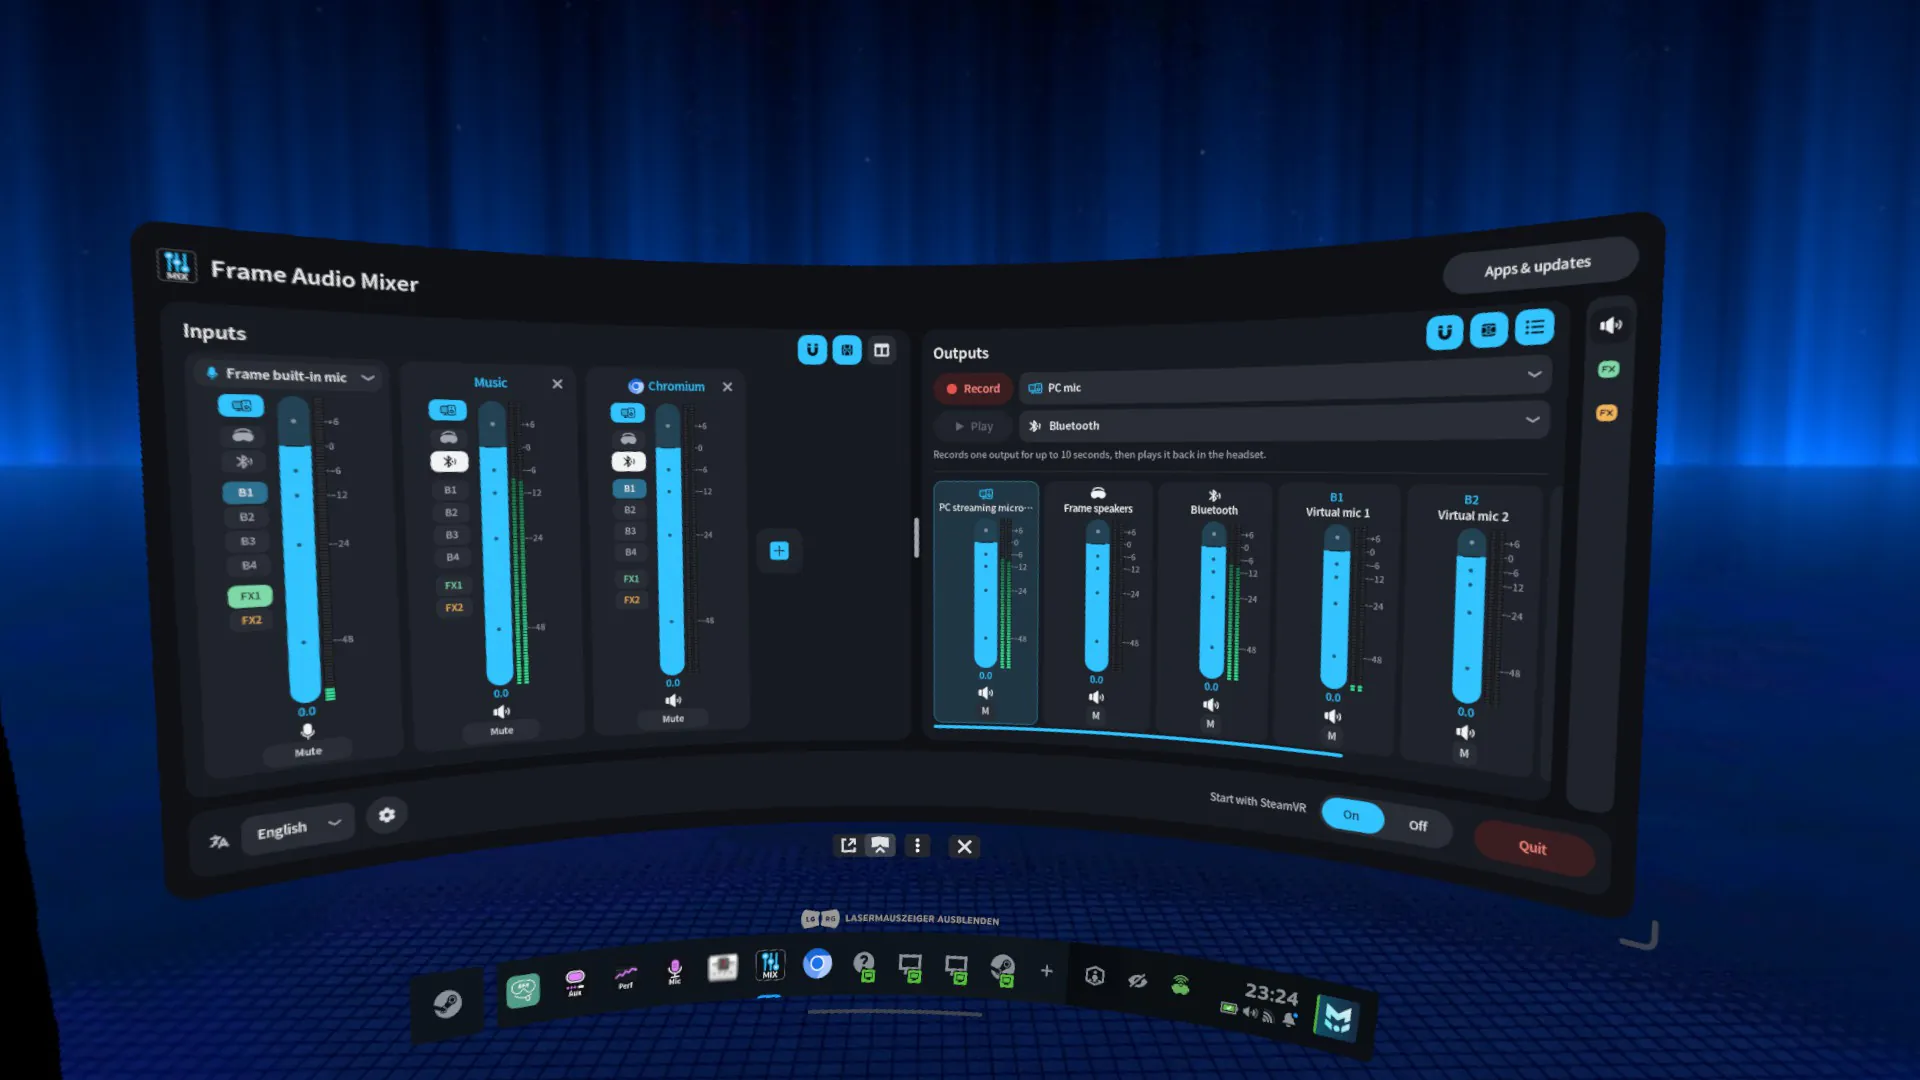
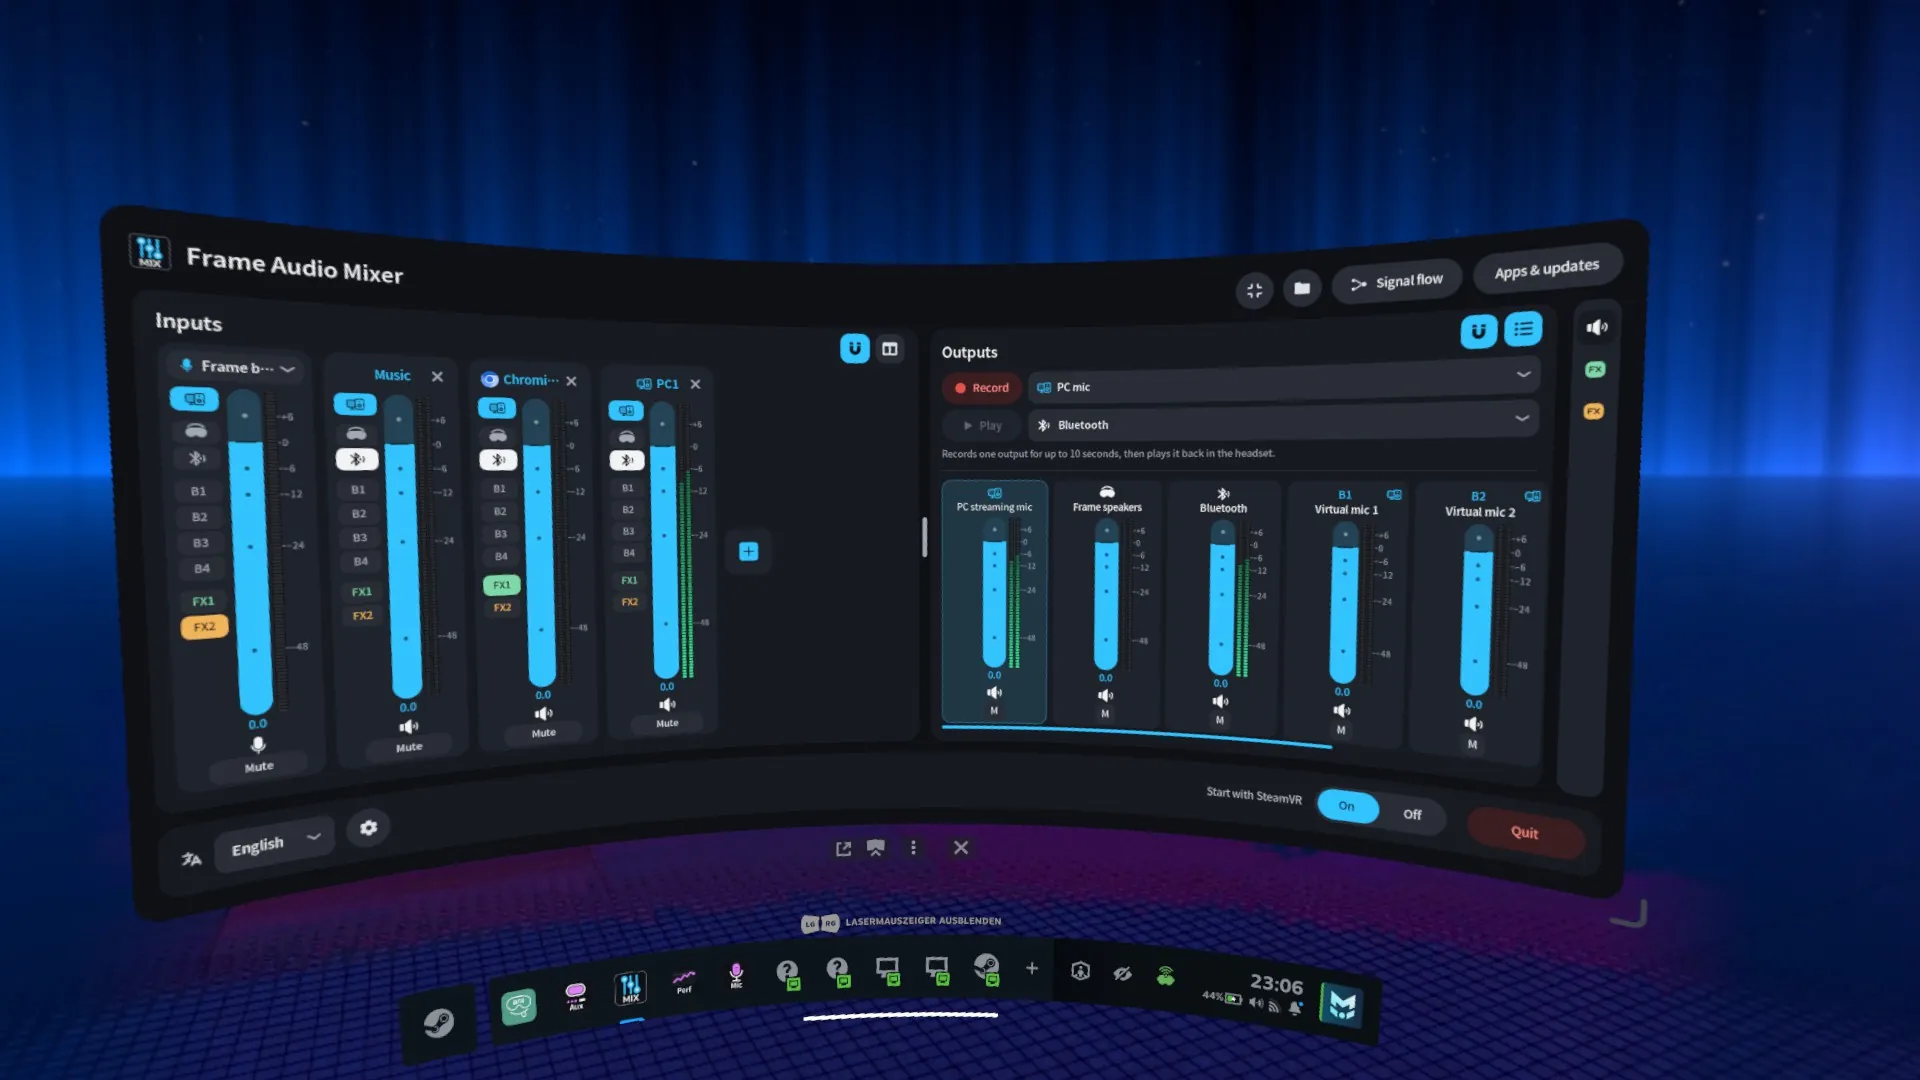
Show the 2.2.0 screenshots on the landing page.
New previews with their descriptions in all seven languages. The docs page's
first-mix picture now also names its PC1 channel.

diff --git a/index.html b/index.html
@@ -9,7 +9,7 @@
   <link rel="preconnect" href="https://fonts.googleapis.com">
   <link rel="preconnect" href="https://fonts.gstatic.com" crossorigin>
   <link href="https://fonts.googleapis.com/css2?family=Noto+Sans+Mono:wght@400&family=Noto+Sans:wght@400;500&display=swap" rel="stylesheet">
-  <link rel="stylesheet" href="css/site.css?v=20261113d">
+  <link rel="stylesheet" href="css/site.css?v=20261113e">
 </head>
 <body data-page="home">
   <div class="waves" aria-hidden="true"><svg class="wave a" viewBox="0 0 2400 800" preserveAspectRatio="none"><path id="wave-a" d="M0 220C75 220 75 130 150 130C225 130 225 220 300 220C375 220 375 310 450 310C525 310 525 220 600 220C675 220 675 130 750 130C825 130 825 220 900 220C975 220 975 310 1050 310C1125 310 1125 220 1200 220"/><use href="#wave-a" x="1200"/></svg><svg class="wave b" viewBox="0 0 2400 800" preserveAspectRatio="none"><path id="wave-b" d="M0 120C75 120 75 210 150 210C225 210 225 120 300 120C375 120 375 30 450 30C525 30 525 120 600 120C675 120 675 210 750 210C825 210 825 120 900 120C975 120 975 30 1050 30C1125 30 1125 120 1200 120"/><use href="#wave-b" x="1200"/></svg><svg class="wave c" viewBox="0 0 2400 800" preserveAspectRatio="none"><path id="wave-c" d="M0 500C75 500 75 450 150 450C225 450 225 500 300 500C375 500 375 550 450 550C525 550 525 500 600 500C675 500 675 450 750 450C825 450 825 500 900 500C975 500 975 550 1050 550C1125 550 1125 500 1200 500"/><use href="#wave-c" x="1200"/></svg></div>
@@ -46,10 +46,10 @@
       <p class="note" data-i18n="install_note"></p>
     </section>
     <section class="gallery" aria-label="Frame Audio Mixer">
-      <button type="button" class="shot"><img src="assets/preview/Preview-Frame-Audio-Mixer-1-960.webp" srcset="assets/preview/Preview-Frame-Audio-Mixer-1-960.webp 960w, assets/preview/Preview-Frame-Audio-Mixer-1.webp 1920w" sizes="(max-width: 720px) calc(100vw - 32px), 512px" width="960" height="540" decoding="async" data-full="assets/preview/Preview-Frame-Audio-Mixer-1.webp" alt="Wide view, blue theme" data-i18n-alt="alt1"></button>
-      <button type="button" class="shot"><img src="assets/preview/Preview-Frame-Audio-Mixer-2-960.webp" srcset="assets/preview/Preview-Frame-Audio-Mixer-2-960.webp 960w, assets/preview/Preview-Frame-Audio-Mixer-2.webp 1920w" sizes="(max-width: 720px) calc(100vw - 32px), 512px" width="960" height="540" decoding="async" data-full="assets/preview/Preview-Frame-Audio-Mixer-2.webp" alt="Input rows, pink theme" data-i18n-alt="alt2"></button>
-      <button type="button" class="shot"><img src="assets/preview/Preview-Frame-Audio-Mixer-3-960.webp" srcset="assets/preview/Preview-Frame-Audio-Mixer-3-960.webp 960w, assets/preview/Preview-Frame-Audio-Mixer-3.webp 1920w" sizes="(max-width: 720px) calc(100vw - 32px), 512px" width="960" height="540" loading="lazy" decoding="async" data-full="assets/preview/Preview-Frame-Audio-Mixer-3.webp" alt="Effect bus, pink theme" data-i18n-alt="alt3"></button>
-      <button type="button" class="shot"><img src="assets/preview/Preview-Frame-Audio-Mixer-4-960.webp" srcset="assets/preview/Preview-Frame-Audio-Mixer-4-960.webp 960w, assets/preview/Preview-Frame-Audio-Mixer-4.webp 1920w" sizes="(max-width: 720px) calc(100vw - 32px), 512px" width="960" height="540" loading="lazy" decoding="async" data-full="assets/preview/Preview-Frame-Audio-Mixer-4.webp" alt="Dashboard, blue theme" data-i18n-alt="alt4"></button>
+      <button type="button" class="shot"><img src="assets/preview/Preview-Frame-Audio-Mixer-1-960.webp" srcset="assets/preview/Preview-Frame-Audio-Mixer-1-960.webp 960w, assets/preview/Preview-Frame-Audio-Mixer-1.webp 1920w" sizes="(max-width: 720px) calc(100vw - 32px), 512px" width="960" height="540" decoding="async" data-full="assets/preview/Preview-Frame-Audio-Mixer-1.webp" alt="Mixer with a PC1 channel, blue theme" data-i18n-alt="alt1"></button>
+      <button type="button" class="shot"><img src="assets/preview/Preview-Frame-Audio-Mixer-2-960.webp" srcset="assets/preview/Preview-Frame-Audio-Mixer-2-960.webp 960w, assets/preview/Preview-Frame-Audio-Mixer-2.webp 1920w" sizes="(max-width: 720px) calc(100vw - 32px), 512px" width="960" height="540" decoding="async" data-full="assets/preview/Preview-Frame-Audio-Mixer-2.webp" alt="Mixer, pink theme" data-i18n-alt="alt2"></button>
+      <button type="button" class="shot"><img src="assets/preview/Preview-Frame-Audio-Mixer-3-960.webp" srcset="assets/preview/Preview-Frame-Audio-Mixer-3-960.webp 960w, assets/preview/Preview-Frame-Audio-Mixer-3.webp 1920w" sizes="(max-width: 720px) calc(100vw - 32px), 512px" width="960" height="540" loading="lazy" decoding="async" data-full="assets/preview/Preview-Frame-Audio-Mixer-3.webp" alt="Signal flow, blue theme" data-i18n-alt="alt3"></button>
+      <button type="button" class="shot"><img src="assets/preview/Preview-Frame-Audio-Mixer-4-960.webp" srcset="assets/preview/Preview-Frame-Audio-Mixer-4-960.webp 960w, assets/preview/Preview-Frame-Audio-Mixer-4.webp 1920w" sizes="(max-width: 720px) calc(100vw - 32px), 512px" width="960" height="540" loading="lazy" decoding="async" data-full="assets/preview/Preview-Frame-Audio-Mixer-4.webp" alt="Mixer below Mixxx in SteamVR" data-i18n-alt="alt4"></button>
     </section>
     <dialog class="lightbox">
       <div class="lightbox-scrim"></div>
@@ -131,7 +131,7 @@
     <a href="imprint.html" data-i18n="imprint">Imprint</a>
     <a href="https://github.com/marcus-universe/frame-audio-mixer/blob/main/LICENSE">MIT</a>
   </footer>
-  <script src="js/i18n.js?v=20261113d"></script>
-  <script src="js/site.js?v=20261113d"></script>
+  <script src="js/i18n.js?v=20261113e"></script>
+  <script src="js/site.js?v=20261113e"></script>
 </body>
 </html>

diff --git a/js/i18n.js b/js/i18n.js
@@ -36,10 +36,10 @@ window.FAM_I18N = {
     f9b: "Add a channel from a running app. It gets its own input, named after the channel.",
     f10: "PC Streaming Mic Mix",
     f10b: "App audio and the headset mic go to the PC together, on the microphone SteamVR already provides.",
-    alt1: "Wide view, blue theme",
-    alt2: "Input rows, pink theme",
-    alt3: "Effect bus, pink theme",
-    alt4: "Dashboard, blue theme",
+    alt1: "Mixer with a PC1 channel, blue theme",
+    alt2: "Mixer, pink theme",
+    alt3: "Signal flow, blue theme",
+    alt4: "Mixer below Mixxx in SteamVR",
     more: "There are more apps for the Steam Frame.",
     more_by: "Steam Frame apps by",
     more_author: "@sasaken",
@@ -144,10 +144,10 @@ window.FAM_I18N = {
     f9b: "実行中のアプリからチャンネルを作ります。その名前の入力ができます。",
     f10: "PCストリーミングマイクのミックス",
     f10b: "アプリの音とヘッドセットのマイクを一緒に、SteamVR がもともと出しているマイクへ送ります。",
-    alt1: "ワイド表示、青のテーマ",
-    alt2: "入力が横並び、ピンクのテーマ",
-    alt3: "エフェクトバス、ピンクのテーマ",
-    alt4: "ダッシュボード、青のテーマ",
+    alt1: "PC1 チャンネルのあるミキサー、青のテーマ",
+    alt2: "ミキサー、ピンクのテーマ",
+    alt3: "信号フロー、青のテーマ",
+    alt4: "SteamVR で Mixxx の下に置いたミキサー",
     more: "Steam Frame 向けのアプリは、ほかにもあります。",
     more_by: "Steam Frame アプリ：",
     more_author: "@sasaken",
@@ -252,10 +252,10 @@ window.FAM_I18N = {
     f9b: "用正在运行的应用添加通道。它会得到一个以通道命名的输入。",
     f10: "PC 串流麦克风混音",
     f10b: "应用的声音和头显麦克风混在一起，送到 SteamVR 原本就有的麦克风。",
-    alt1: "宽屏，蓝色主题",
-    alt2: "输入横排，粉色主题",
-    alt3: "效果总线，粉色主题",
-    alt4: "仪表板，蓝色主题",
+    alt1: "带 PC1 通道的混音器，蓝色主题",
+    alt2: "混音器，粉色主题",
+    alt3: "信号流向，蓝色主题",
+    alt4: "在 SteamVR 中放在 Mixxx 下方的混音器",
     more: "还有更多 Steam Frame 应用。",
     more_by: "Steam Frame 应用来自",
     more_author: "@sasaken",
@@ -360,10 +360,10 @@ window.FAM_I18N = {
     f9b: "Lege einen Kanal aus einer laufenden App an. Er bekommt einen eigenen Eingang, benannt nach dem Kanal.",
     f10: "PC-Streaming-Mikrofon-Mix",
     f10b: "App-Ton und das Headset-Mikrofon gehen zusammen an den PC, über das Mikrofon, das SteamVR schon bereitstellt.",
-    alt1: "Breite Ansicht, blaues Thema",
-    alt2: "Eingänge als Zeilen, rosa Thema",
-    alt3: "Effektbus, rosa Thema",
-    alt4: "Dashboard, blaues Thema",
+    alt1: "Mixer mit einem PC1-Kanal, blaues Thema",
+    alt2: "Mixer, rosa Thema",
+    alt3: "Signalfluss, blaues Thema",
+    alt4: "Mixer unter Mixxx in SteamVR",
     more: "Es gibt weitere Apps für die Steam Frame.",
     more_by: "Steam-Frame-Apps von",
     more_author: "@sasaken",
@@ -468,10 +468,10 @@ window.FAM_I18N = {
     f9b: "Ajoutez un canal depuis une appli en cours. Il reçoit sa propre entrée, au nom du canal.",
     f10: "Mix du micro de streaming PC",
     f10b: "Le son des applis et le micro du casque partent ensemble vers le PC, sur le micro que SteamVR fournit déjà.",
-    alt1: "Vue large, thème bleu",
-    alt2: "Entrées en rangées, thème rose",
-    alt3: "Bus d'effets, thème rose",
-    alt4: "Tableau de bord, thème bleu",
+    alt1: "Mixeur avec un canal PC1, thème bleu",
+    alt2: "Mixeur, thème rose",
+    alt3: "Flux du signal, thème bleu",
+    alt4: "Mixeur sous Mixxx dans SteamVR",
     more: "Il existe d'autres applis pour le Steam Frame.",
     more_by: "Applis Steam Frame de",
     more_author: "@sasaken",
@@ -576,10 +576,10 @@ window.FAM_I18N = {
     f9b: "Añade un canal desde una app en ejecución. Recibe su propia entrada, con el nombre del canal.",
     f10: "Mezcla del micrófono de streaming del PC",
     f10b: "El audio de las apps y el micrófono del visor van juntos al PC, por el micrófono que SteamVR ya ofrece.",
-    alt1: "Vista ancha, tema azul",
-    alt2: "Entradas en filas, tema rosa",
-    alt3: "Bus de efectos, tema rosa",
-    alt4: "Panel, tema azul",
+    alt1: "Mezclador con un canal PC1, tema azul",
+    alt2: "Mezclador, tema rosa",
+    alt3: "Flujo de señal, tema azul",
+    alt4: "Mezclador bajo Mixxx en SteamVR",
     more: "Hay más apps para Steam Frame.",
     more_by: "Apps de Steam Frame de",
     more_author: "@sasaken",
@@ -684,10 +684,10 @@ window.FAM_I18N = {
     f9b: "Aggiungi un canale da un'app in esecuzione. Riceve un proprio ingresso, col nome del canale.",
     f10: "Mix del microfono di streaming del PC",
     f10b: "L'audio delle app e il microfono del visore arrivano insieme al PC, sul microfono che SteamVR fornisce già.",
-    alt1: "Vista larga, tema blu",
-    alt2: "Ingressi in righe, tema rosa",
-    alt3: "Bus effetti, tema rosa",
-    alt4: "Dashboard, tema blu",
+    alt1: "Mixer con un canale PC1, tema blu",
+    alt2: "Mixer, tema rosa",
+    alt3: "Flusso del segnale, tema blu",
+    alt4: "Mixer sotto Mixxx in SteamVR",
     more: "Ci sono altre app per Steam Frame.",
     more_by: "App Steam Frame di",
     more_author: "@sasaken",

diff --git a/docs.html b/docs.html
@@ -9,8 +9,8 @@
   <link rel="preconnect" href="https://fonts.googleapis.com">
   <link rel="preconnect" href="https://fonts.gstatic.com" crossorigin>
   <link href="https://fonts.googleapis.com/css2?family=Noto+Sans+Mono:wght@400&family=Noto+Sans:wght@400;500;600&display=swap" rel="stylesheet">
-  <link rel="stylesheet" href="css/site.css?v=20261113d">
-  <link rel="stylesheet" href="css/docs.css?v=20261113d">
+  <link rel="stylesheet" href="css/site.css?v=20261113e">
+  <link rel="stylesheet" href="css/docs.css?v=20261113e">
 </head>
 <body data-page="docs">
   <a class="skip" href="#doc" data-i18n="skip">Skip to content</a>
@@ -102,7 +102,7 @@
             <li><strong>Route it.</strong> Turn on <span class="route">PC</span> to send the channel to your PC, <span class="route">A1</span> to hear it in the headset, or <span class="route">B1</span> for a virtual microphone. Set the level with the fader.</li>
           </ol>
           <figure class="shot">
-            <img src="assets/preview/Preview-Frame-Audio-Mixer-1.webp" srcset="assets/preview/Preview-Frame-Audio-Mixer-1-960.webp 960w, assets/preview/Preview-Frame-Audio-Mixer-1.webp 1920w" sizes="(max-width: 860px) 100vw, 800px" width="1920" height="1080" loading="lazy" decoding="async" alt="Frame Audio Mixer in the headset: inputs on the left (the Frame microphone, Music and Chromium), each with a fader and route buttons, and the outputs on the right with Record, Play and the output faders.">
+            <img src="assets/preview/Preview-Frame-Audio-Mixer-1.webp" srcset="assets/preview/Preview-Frame-Audio-Mixer-1-960.webp 960w, assets/preview/Preview-Frame-Audio-Mixer-1.webp 1920w" sizes="(max-width: 860px) 100vw, 800px" width="1920" height="1080" loading="lazy" decoding="async" alt="Frame Audio Mixer in the headset: inputs on the left (the Frame microphone, Music, Chromium and PC1), each with a fader and route buttons, and the outputs on the right with Record, Play and the output faders.">
             <figcaption>The panel in the headset. Inputs on the left, outputs on the right.</figcaption>
           </figure>
         </section>
@@ -650,8 +650,8 @@
     <a href="imprint.html" data-i18n="imprint">Imprint</a>
     <a href="https://github.com/marcus-universe/frame-audio-mixer/blob/main/LICENSE">MIT</a>
   </footer>
-  <script src="js/i18n.js?v=20261113d"></script>
-  <script src="js/site.js?v=20261113d"></script>
-  <script src="js/docs.js?v=20261113d"></script>
+  <script src="js/i18n.js?v=20261113e"></script>
+  <script src="js/site.js?v=20261113e"></script>
+  <script src="js/docs.js?v=20261113e"></script>
 </body>
 </html>

diff --git a/download.html b/download.html
@@ -9,7 +9,7 @@
   <link rel="preconnect" href="https://fonts.googleapis.com">
   <link rel="preconnect" href="https://fonts.gstatic.com" crossorigin>
   <link href="https://fonts.googleapis.com/css2?family=Noto+Sans+Mono:wght@400&family=Noto+Sans:wght@400;500&display=swap" rel="stylesheet">
-  <link rel="stylesheet" href="css/site.css?v=20261113d">
+  <link rel="stylesheet" href="css/site.css?v=20261113e">
 </head>
 <body data-page="download">
   <div class="waves" aria-hidden="true"><svg class="wave a" viewBox="0 0 2400 800" preserveAspectRatio="none"><path id="wave-a" d="M0 220C75 220 75 130 150 130C225 130 225 220 300 220C375 220 375 310 450 310C525 310 525 220 600 220C675 220 675 130 750 130C825 130 825 220 900 220C975 220 975 310 1050 310C1125 310 1125 220 1200 220"/><use href="#wave-a" x="1200"/></svg><svg class="wave b" viewBox="0 0 2400 800" preserveAspectRatio="none"><path id="wave-b" d="M0 120C75 120 75 210 150 210C225 210 225 120 300 120C375 120 375 30 450 30C525 30 525 120 600 120C675 120 675 210 750 210C825 210 825 120 900 120C975 120 975 30 1050 30C1125 30 1125 120 1200 120"/><use href="#wave-b" x="1200"/></svg><svg class="wave c" viewBox="0 0 2400 800" preserveAspectRatio="none"><path id="wave-c" d="M0 500C75 500 75 450 150 450C225 450 225 500 300 500C375 500 375 550 450 550C525 550 525 500 600 500C675 500 675 450 750 450C825 450 825 500 900 500C975 500 975 550 1050 550C1125 550 1125 500 1200 500"/><use href="#wave-c" x="1200"/></svg></div>
@@ -291,8 +291,8 @@
     <a href="imprint.html" data-i18n="imprint">Imprint</a>
     <a href="https://github.com/marcus-universe/frame-audio-mixer/blob/main/LICENSE">MIT</a>
   </footer>
-  <script src="js/i18n.js?v=20261113d"></script>
-  <script src="js/site.js?v=20261113d"></script>
-  <script src="js/download.js?v=20261113d"></script>
+  <script src="js/i18n.js?v=20261113e"></script>
+  <script src="js/site.js?v=20261113e"></script>
+  <script src="js/download.js?v=20261113e"></script>
 </body>
 </html>

diff --git a/imprint.html b/imprint.html
@@ -9,7 +9,7 @@
   <link rel="preconnect" href="https://fonts.googleapis.com">
   <link rel="preconnect" href="https://fonts.gstatic.com" crossorigin>
   <link href="https://fonts.googleapis.com/css2?family=Noto+Sans+Mono:wght@400&family=Noto+Sans:wght@400;500&display=swap" rel="stylesheet">
-  <link rel="stylesheet" href="css/site.css?v=20261113d">
+  <link rel="stylesheet" href="css/site.css?v=20261113e">
 </head>
 <body data-page="imprint">
   <div class="waves" aria-hidden="true"><svg class="wave a" viewBox="0 0 2400 800" preserveAspectRatio="none"><path id="wave-a" d="M0 220C75 220 75 130 150 130C225 130 225 220 300 220C375 220 375 310 450 310C525 310 525 220 600 220C675 220 675 130 750 130C825 130 825 220 900 220C975 220 975 310 1050 310C1125 310 1125 220 1200 220"/><use href="#wave-a" x="1200"/></svg><svg class="wave b" viewBox="0 0 2400 800" preserveAspectRatio="none"><path id="wave-b" d="M0 120C75 120 75 210 150 210C225 210 225 120 300 120C375 120 375 30 450 30C525 30 525 120 600 120C675 120 675 210 750 210C825 210 825 120 900 120C975 120 975 30 1050 30C1125 30 1125 120 1200 120"/><use href="#wave-b" x="1200"/></svg><svg class="wave c" viewBox="0 0 2400 800" preserveAspectRatio="none"><path id="wave-c" d="M0 500C75 500 75 450 150 450C225 450 225 500 300 500C375 500 375 550 450 550C525 550 525 500 600 500C675 500 675 450 750 450C825 450 825 500 900 500C975 500 975 550 1050 550C1125 550 1125 500 1200 500"/><use href="#wave-c" x="1200"/></svg></div>
@@ -47,7 +47,7 @@
     <a href="imprint.html" data-i18n="imprint">Imprint</a>
     <a href="https://github.com/marcus-universe/frame-audio-mixer/blob/main/LICENSE">MIT</a>
   </footer>
-  <script src="js/i18n.js?v=20261113d"></script>
-  <script src="js/site.js?v=20261113d"></script>
+  <script src="js/i18n.js?v=20261113e"></script>
+  <script src="js/site.js?v=20261113e"></script>
 </body>
 </html>
